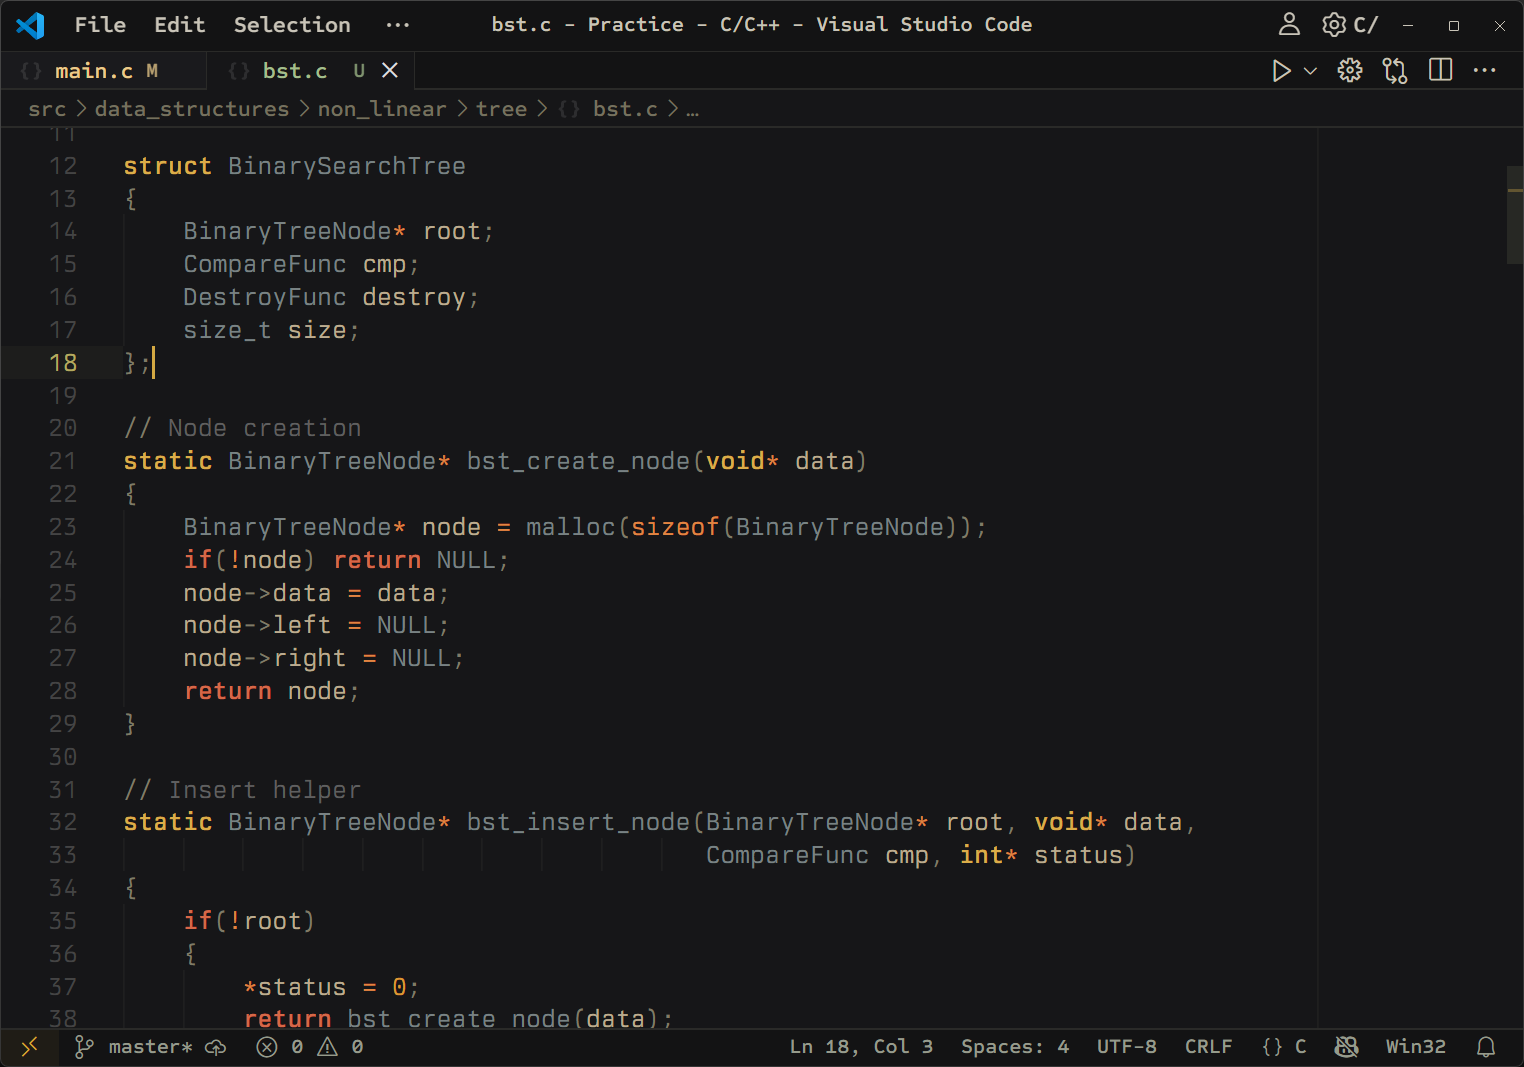
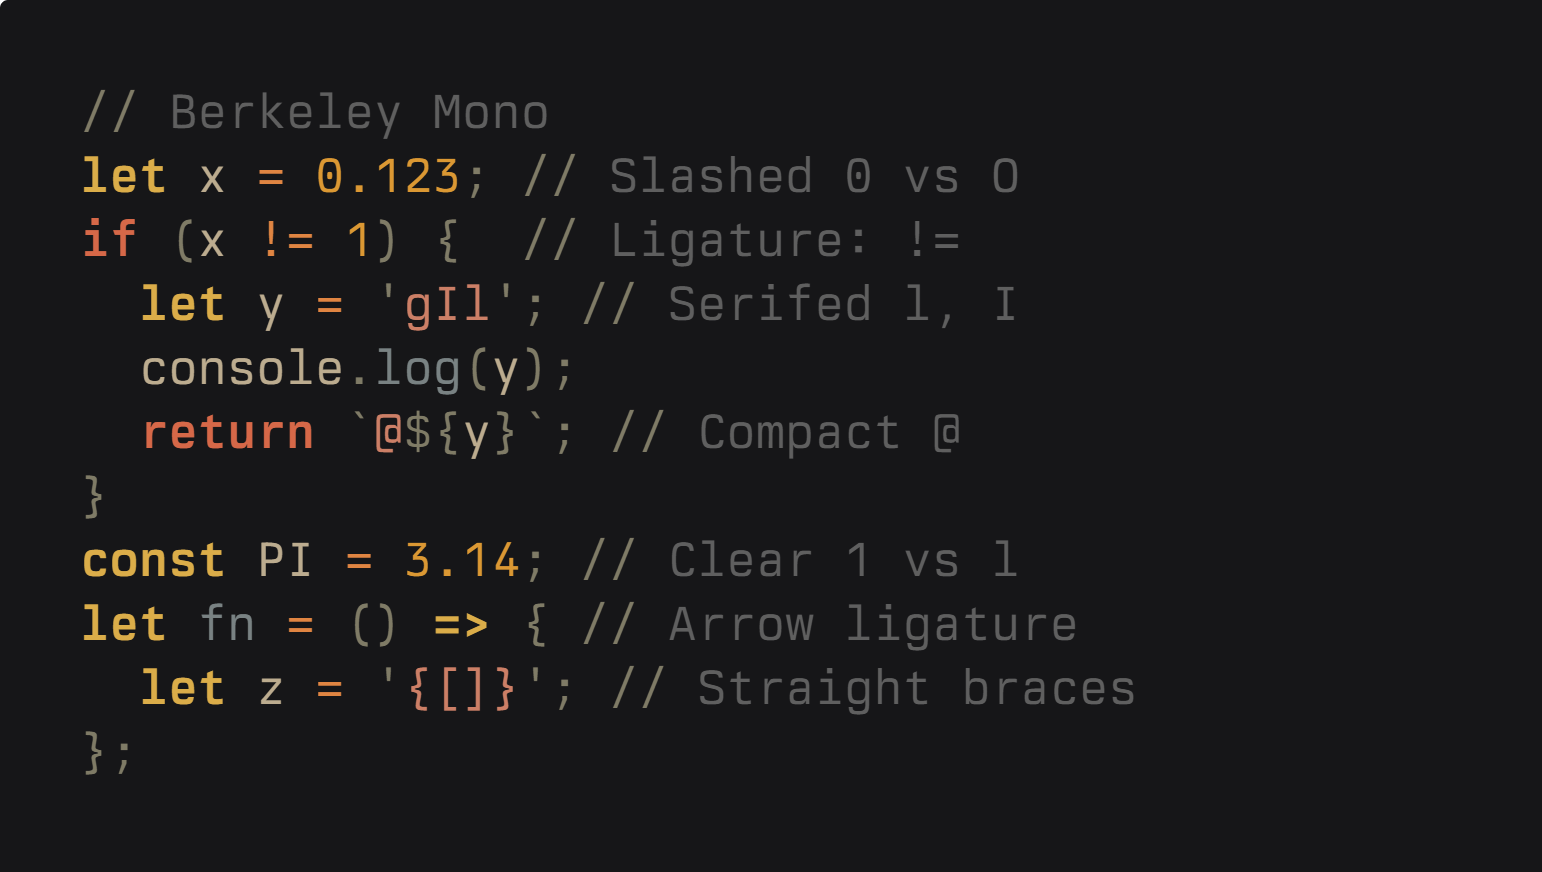
docs(README): update configuration details for Berkeley Mono
-Clarified the specific glyph choices and custom metrics used to achieve the Berkeley Mono aesthetic.
-Updated the preview image captions to be more descriptive.
-Changed the 'eight' glyph from "crossing-asymmetric" to "two-circles" in private-build-plans.toml to better match Berkeley Mono.
-Updated 'at' glyph from "fourfold" to "threefold".
-Updated 'percent' glyph from "rings-segmented-slash" to "rings-continuous-slash".
-Added custom metric overrides for IoskeleyMono to better match Berkeley Mono's proportions, including xHeight, cap, ascender, sb, accent dimensions, leading, parenSize, dotSize, periodSize, essRatio, and archDepth.

diff --git a/README.md b/README.md
@@ -22,23 +22,18 @@ The easiest way to get the font is to download it directly from the **Releases**
 
 ## Preview
 
-### Ioskeley Mono
-
-![Ioskeley Mono Preview](./assets/IoskeleyMono.png)
-
-### Berkeley Mono
-
-![Berkeley Mono Preview](./assets/BerkeleyMono.png)
+| Ioskeley Mono                                                                                                                          | Berkeley Mono                                                                                      |
+| -------------------------------------------------------------------------------------------------------------------------------------- | -------------------------------------------------------------------------------------------------- |
+| ![Iosevka Berkeley Sample](assets/IoskeleyMono.png "Sample code in Ioskeley Mono with slashed zero, straight braces, and serifed l/I") | ![Berkeley Mono Sample](assets/BerkeleyMono.png "Sample code in Berkeley Mono with native glyphs") |
 
 ### Configuration Choices
 
-To achieve the Berkeley Mono aesthetic, the following key variants were selected from Iosevka's available glyphs:
+This configuration uses specific character variants and custom metrics to closely match the look and feel of Berkeley Mono.
 
-- **Numbers:** Dotted zero (`0`) and open-contour `6` and `9`.
-- **Key Characters:** A classic double-storey `a` and a modern single-storey `g`.
-- **Punctuation:** Sharp, square dots for a crisp, technical feel.
-- **Underscore:** Set to `high` for better visibility.
-- **Ligatures:** Standard programming ligatures are enabled.
+- **Custom Metrics:** The font's vertical proportions, letter spacing (`sb`), and parenthesis size have been manually adjusted. This is the key to capturing Berkeley's characteristically compact and geometric feel.
+- **Distinctive Characters:** Key glyphs were chosen to match, including a **single-storey `g`**, **flat-arc parentheses `()`**, and a **two-circle `8`**.
+- **Clarity and Readability:** For the best coding experience, the font uses a **dotted zero**, **open-contour `6` and `9`**, and sharp, **square punctuation**.
+- **High Underscore:** The underscore character is raised to ensure it is clearly visible and never blends with the line below.
 
 For a complete list of all choices made to match Berkeley Mono, see the [`private-build-plans.toml`](./private-build-plans.toml) file.
 
